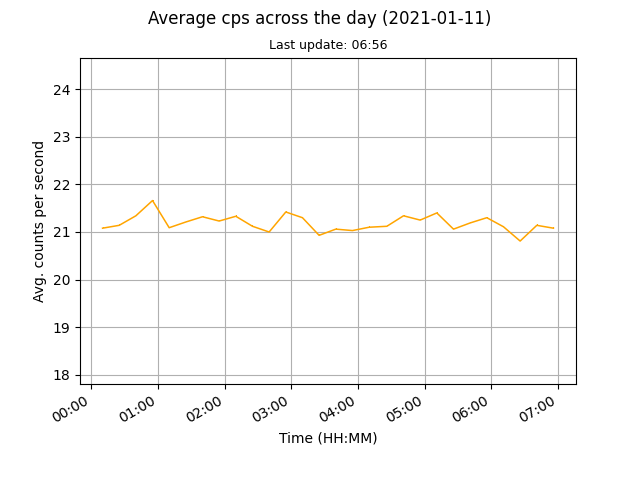
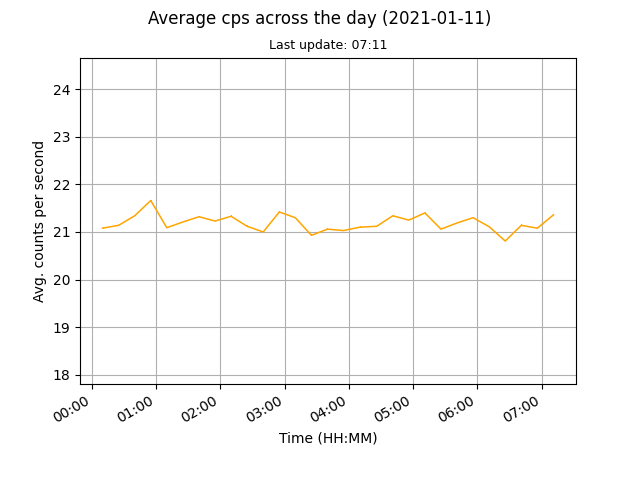
auto data update

diff --git a/docs/index.html b/docs/index.html
@@ -45,8 +45,8 @@
 	
 	<br>
 	
-	<p>Current counts per second (cps): 21.08</p>
-	<p>Last update: 2021-01-11, 06:56</p>
+	<p>Current counts per second (cps): 21.36</p>
+	<p>Last update: 2021-01-11, 07:11</p>
 
 	<p><a href="images/monthly.png"><img src="images/monthly.png" alt="Mothly avg cps data"></a><a href="images/daily.png"><img src="images/daily.png" alt="Daily avg cps data"></a></p>
 	
